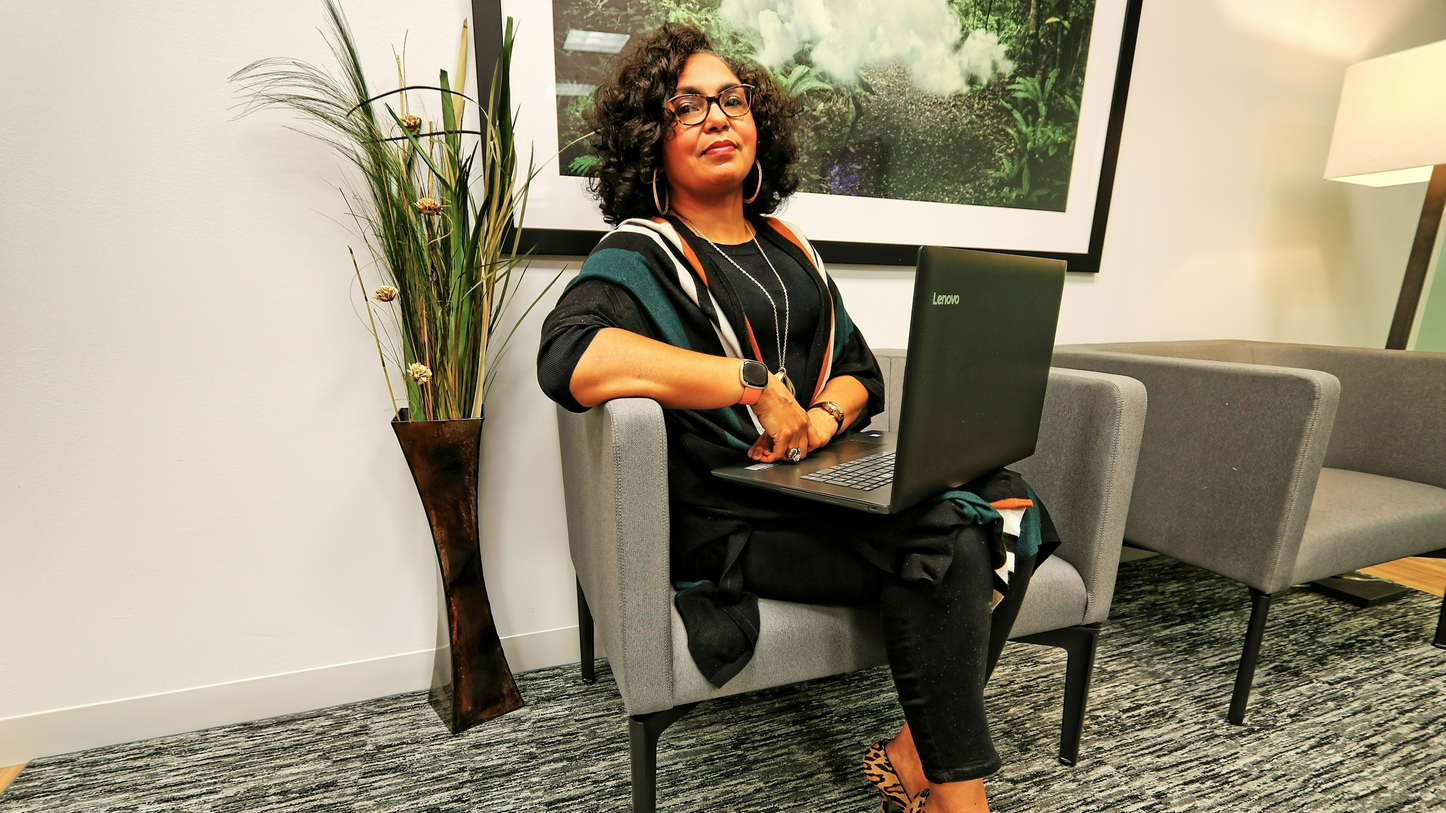
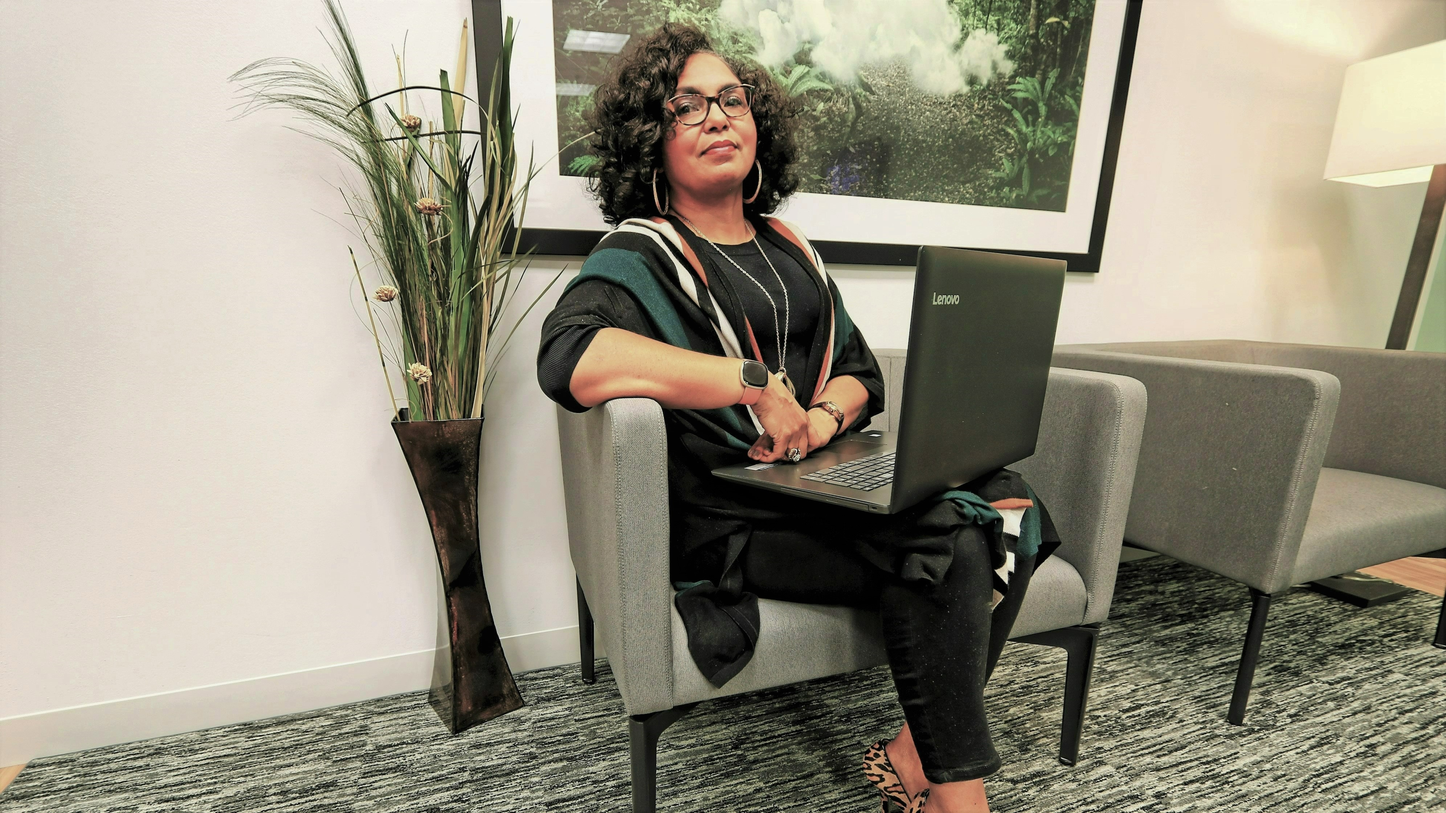
Updated background image

diff --git a/src/styles.css b/src/styles.css
@@ -2,14 +2,17 @@
 /* best image size at least or so: 6016px x 4016px */
 :root {
     --branding-color: #8E8268;
-    --text-color: #FBEEC1;
+    /* --text-color: #FBEEC1; */
+    --text-color: #EDF5E1;
     --accent-color: #bc986a;
+    --hover-color: #8EE4AF;
     /* --background-color: #e7717D; */
     
 }
 
 body {
-    background-image: url("/images-4/1-TCR2-wideA.jpg");
+    /* background-image: url("/images-4/1-TCR16-wideA.jpg"); */
+    background-image: url("/images-4/1B-TCR-wide.jpg");
     background-position: center center; 
     background-repeat: no-repeat;
     background-attachment: fixed;
@@ -22,7 +25,7 @@ body {
 
 
 h1, h2, h3 {
-    color: var(--text-color); 
+    color: whitesmoke; 
     text-align: center;
     font-weight: lighter;
 }
@@ -47,7 +50,7 @@ h4 {
 }
 
 p {
-    color: #faf6e8;
+    color: white;
 }
 
 .dev-info {
@@ -167,7 +170,7 @@ hr {
 }
 
 .contact-section a:hover {
-    color: var(--accent-color);
+    color: var(--hover-color);
 }
 
 
@@ -231,19 +234,18 @@ footer .contact {
     color: rgb(22, 20, 20, 1);
 }
 
-
-
-
 /* depending upon background image */
-.hyperlink-line {
+.footer-home .hyperlink-line {
     /* color: rgb(209, 209, 209); */
     /* color: rgb(208, 253, 8); */
-    color: var(--accent-color);
-
+    /* color: var(--accent-color); */
+    color: #8EE4AF;
 }
 
-.hyperlink-line:hover {
-    color: #659dbd;
+.footer-home .hyperlink-line:hover {
+    /* color: #659dbd; */
+    /* color: #8EE4AF */
+    color: #FBEEC1;
 }
 
 .contact-container h2 {
@@ -288,7 +290,7 @@ footer .email-link {
 }
 
 footer .email-link:hover {
-    color: var(--accent-color);   
+    color: var(--hover-color);   
 }
 
 footer .social-links a  {
@@ -305,7 +307,7 @@ footer .social-links a  {
 
 footer .social-links a:hover  {
     color: rgb(23, 41, 29);
-    background: var(--accent-color);   
+    background: var(--hover-color);   
 }
 
 @media (max-width: 960px) {
